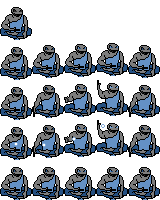
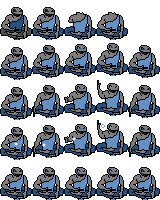
Add broken frame. Make still frame look more statuesque.

Changed region(s): [[0.0, 0.03, 0.8125, 0.21]]

diff --git a/app/content/enemyAnimations.ts b/app/content/enemyAnimations.ts
@@ -25,8 +25,9 @@ export const snakeAnimations: ActorAnimations = {
 };
 // ice snake animations
 // gfx/enemies/miniStatueBoss-ice-32x40
-const iceIdolGeometry: FrameDimensions = { w: 32, h: 40, content: { x: 0, y: 4, w: 32, h: 36} };
-const iceIdolStillAnimation: FrameAnimation = createAnimation('gfx/enemies/miniStatueBoss-ice-32x40.png', iceIdolGeometry, { y: 0, cols: 1});
+const iceIdolGeometry: FrameDimensions = { w: 32, h: 40, content: { x: 2, y: 20, w: 28, h: 20} };
+const iceIdolStillAnimation: FrameAnimation = createAnimation('gfx/enemies/miniStatueBoss-ice-32x40.png', iceIdolGeometry, { x: 0, y: 0, cols: 1});
+const iceIdolBrokenAnimation: FrameAnimation = createAnimation('gfx/enemies/miniStatueBoss-ice-32x40.png', iceIdolGeometry, { x: 2, y: 0, cols: 1});
 const iceIdolIdleAnimation: FrameAnimation = createAnimation('gfx/enemies/miniStatueBoss-ice-32x40.png', iceIdolGeometry, { y: 1, cols: 5});
 const iceIdolAttackAnimation: FrameAnimation = createAnimation('gfx/enemies/miniStatueBoss-ice-32x40.png', iceIdolGeometry, { y: 2, cols: 5});
 const iceIdolAttackBallAnimation: FrameAnimation = createAnimation('gfx/enemies/miniStatueBoss-ice-32x40.png', iceIdolGeometry, { y: 3, cols: 5});
@@ -62,13 +63,20 @@ export const iceIdolAnimations: ActorAnimations = {
         down: iceIdolWarningAnimation,
         left: iceIdolWarningAnimation,
         right: iceIdolWarningAnimation,
+    },
+    broken: {
+        up: iceIdolBrokenAnimation,
+        down: iceIdolBrokenAnimation,
+        left: iceIdolBrokenAnimation,
+        right: iceIdolBrokenAnimation,
     }
 };
 
 // lightning bird animations
 // gfx/enemies/miniStatueBoss-lightning-32x40
-const lightningIdolGeometry: FrameDimensions = { w: 32, h: 40, content: { x: 0, y: 4, w: 32, h: 36} };
+const lightningIdolGeometry: FrameDimensions = { w: 32, h: 40, content: { x: 2, y: 20, w: 28, h: 20} };
 const lightningIdolStillAnimation: FrameAnimation = createAnimation('gfx/enemies/miniStatueBoss-lightning-32x40.png', lightningIdolGeometry, { y: 0, cols: 1});
+const lightningIdolBrokenAnimation: FrameAnimation = createAnimation('gfx/enemies/miniStatueBoss-lightning-32x40.png', lightningIdolGeometry, { x: 2, y: 0, cols: 1});
 const lightningIdolIdleAnimation: FrameAnimation = createAnimation('gfx/enemies/miniStatueBoss-lightning-32x40.png', lightningIdolGeometry, { y: 1, cols: 5});
 const lightningIdolAttackAnimation: FrameAnimation = createAnimation('gfx/enemies/miniStatueBoss-lightning-32x40.png', lightningIdolGeometry, { y: 2, cols: 5});
 const lightningIdolAttackBallAnimation: FrameAnimation = createAnimation('gfx/enemies/miniStatueBoss-lightning-32x40.png', lightningIdolGeometry, { y: 3, cols: 5});
@@ -104,13 +112,20 @@ export const lightningIdolAnimations: ActorAnimations = {
         down: lightningIdolWarningAnimation,
         left: lightningIdolWarningAnimation,
         right: lightningIdolWarningAnimation,
+    },
+    broken: {
+        up: lightningIdolBrokenAnimation,
+        down: lightningIdolBrokenAnimation,
+        left: lightningIdolBrokenAnimation,
+        right: lightningIdolBrokenAnimation,
     }
 };
 
 // fire badger animations
 // gfx/enemies/miniStatueBoss-fire-32x40
-const fireIdolGeometry: FrameDimensions = { w: 32, h: 40, content: { x: 0, y: 4, w: 32, h: 36} };
+const fireIdolGeometry: FrameDimensions = { w: 32, h: 40, content: { x: 2, y: 20, w: 28, h: 20} };
 const fireIdolStillAnimation: FrameAnimation = createAnimation('gfx/enemies/miniStatueBoss-fire-32x40.png', fireIdolGeometry, { y: 0, cols: 1});
+const fireIdolBrokenAnimation: FrameAnimation = createAnimation('gfx/enemies/miniStatueBoss-fire-32x40.png', fireIdolGeometry, { x: 2, y: 0, cols: 1});
 const fireIdolIdleAnimation: FrameAnimation = createAnimation('gfx/enemies/miniStatueBoss-fire-32x40.png', fireIdolGeometry, { y: 1, cols: 5});
 const fireIdolAttackAnimation: FrameAnimation = createAnimation('gfx/enemies/miniStatueBoss-fire-32x40.png', fireIdolGeometry, { y: 2, cols: 5});
 const fireIdolAttackBallAnimation: FrameAnimation = createAnimation('gfx/enemies/miniStatueBoss-fire-32x40.png', fireIdolGeometry, { y: 3, cols: 5});
@@ -146,6 +161,12 @@ export const fireIdolAnimations: ActorAnimations = {
         down: fireIdolWarningAnimation,
         left: fireIdolWarningAnimation,
         right: fireIdolWarningAnimation,
+    },
+    broken: {
+        up: fireIdolBrokenAnimation,
+        down: fireIdolBrokenAnimation,
+        left: fireIdolBrokenAnimation,
+        right: fireIdolBrokenAnimation,
     }
 };
 

diff --git a/app/content/bosses/idols.ts b/app/content/bosses/idols.ts
@@ -15,27 +15,26 @@ enemyDefinitions.stormIdol = {
     alwaysReset: true,
     animations: lightningIdolAnimations, scale: 1,
     isImmortal: true,
-    life: 8, touchDamage: 1, update: updateStormIdol, renderOver: renderIdolShield,
+    life: 8, touchDamage: 1, update: updateStormIdol,
     immunities: ['lightning'],
 };
 enemyDefinitions.flameIdol = {
     alwaysReset: true,
     animations: fireIdolAnimations, scale: 1,
     isImmortal: true,
-    life: 8, touchDamage: 1, update: updateFlameIdol, renderOver: renderIdolShield,
+    life: 8, touchDamage: 1, update: updateFlameIdol,
     immunities: ['fire'],
 };
 enemyDefinitions.frostIdol = {
     alwaysReset: true,
     animations: iceIdolAnimations, scale: 1,
     isImmortal: true,
-    life: 8, touchDamage: 1, update: updateFrostIdol, renderOver: renderIdolShield,
+    life: 8, touchDamage: 1, update: updateFrostIdol,
     immunities: ['ice'],
 };
 
 
 function updateStormIdol(state: GameState, enemy: Enemy): void {
-    enemy.params.shieldColor = 'yellow';
     updateElementalIdol(state, enemy, () => {
         enemy.params.theta = (enemy.params.theta || 0) + Math.PI / 4;
         const lightningBolt = new LightningBolt({
@@ -47,7 +46,6 @@ function updateStormIdol(state: GameState, enemy: Enemy): void {
     })
 }
 function updateFlameIdol(state: GameState, enemy: Enemy): void {
-    enemy.params.shieldColor = 'red';
     updateElementalIdol(state, enemy, () => {
         enemy.params.rotations = (enemy.params.rotations ?? Math.floor(Math.random() * 3)) + 1;
         const flameWall = new FlameWall({
@@ -57,7 +55,6 @@ function updateFlameIdol(state: GameState, enemy: Enemy): void {
     });
 }
 function updateFrostIdol(state: GameState, enemy: Enemy): void {
-    enemy.params.shieldColor = '#08F';
     updateElementalIdol(state, enemy, () => {
         enemy.params.theta = 2 * Math.PI * Math.random();
         throwIceGrenadeAtLocation(state, enemy, {
@@ -77,6 +74,7 @@ function updateElementalIdol(state: GameState, enemy: Enemy, attack: () => void)
             object instanceof Enemy && object.definition.type === 'boss' && object.life > 0
         )) {
             enemy.showDeathAnimation(state);
+            enemy.changeToAnimation('broken');
             return;
         }
         enemy.shielded = true;
@@ -142,16 +140,5 @@ function updateElementalIdol(state: GameState, enemy: Enemy, attack: () => void)
         enemy.setMode('shielded');
         enemy.changeToAnimation('still');
         enemy.shielded = true;
-    }
-}
-
-function renderIdolShield(context: CanvasRenderingContext2D, state: GameState, enemy: Enemy): void {
-    if (enemy.shielded) {
-        const hitbox = enemy.getHitbox(state);
-        context.save();
-            context.globalAlpha *= 0.5;
-            context.fillStyle = enemy.params.shieldColor ?? '#888';
-            context.fillRect(hitbox.x, hitbox.y, hitbox.w, hitbox.h);
-        context.restore();
     }
 }
